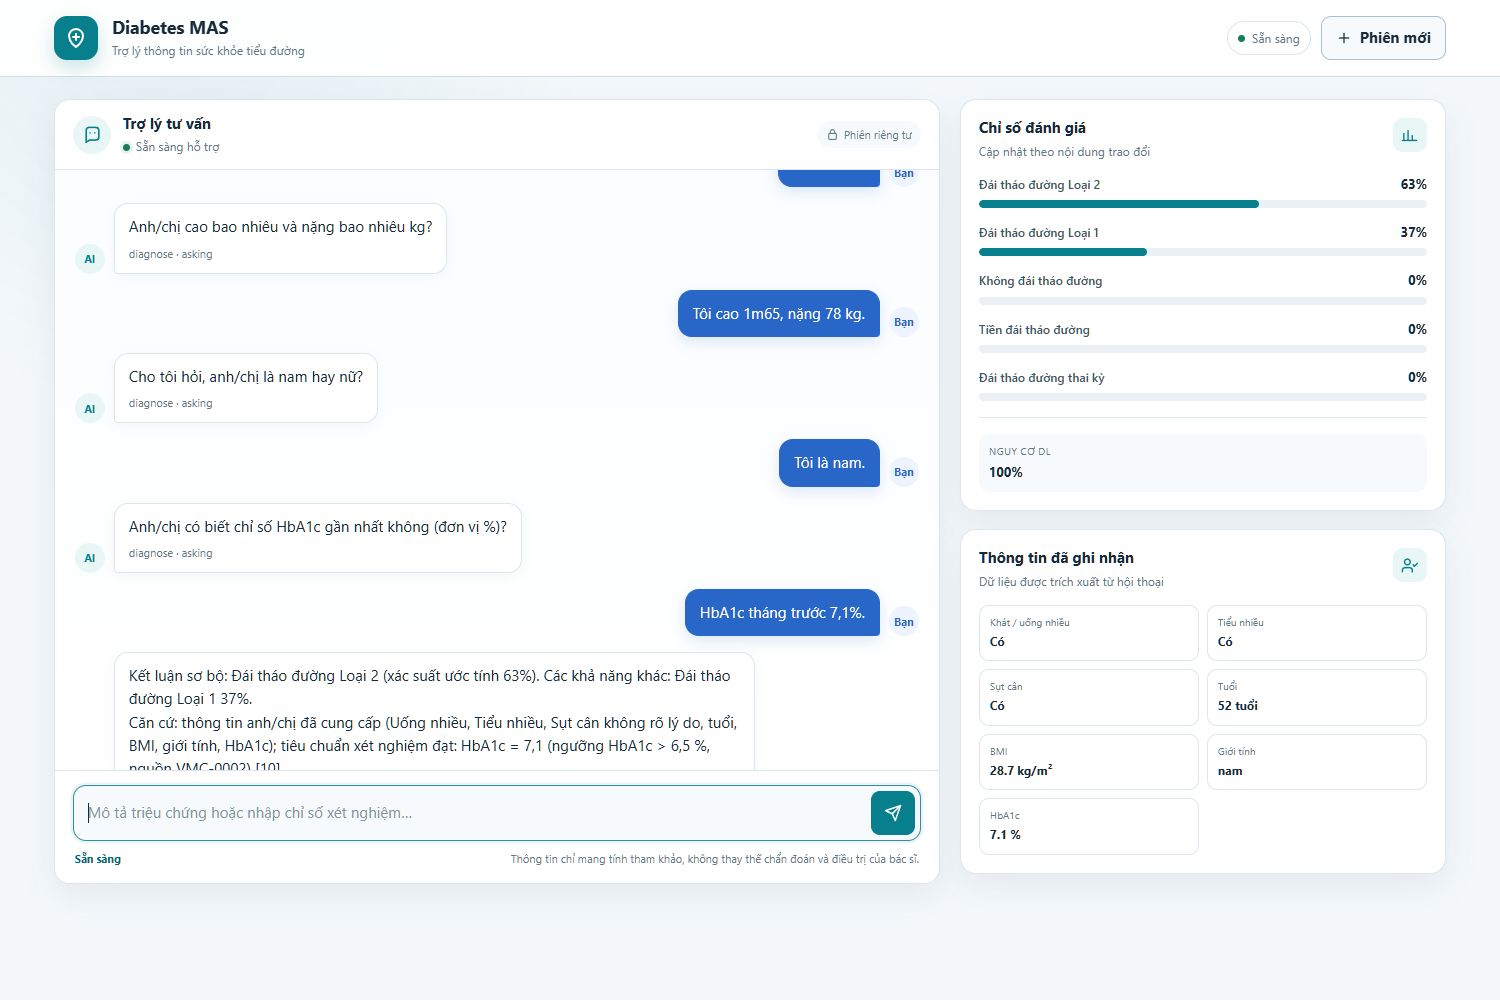
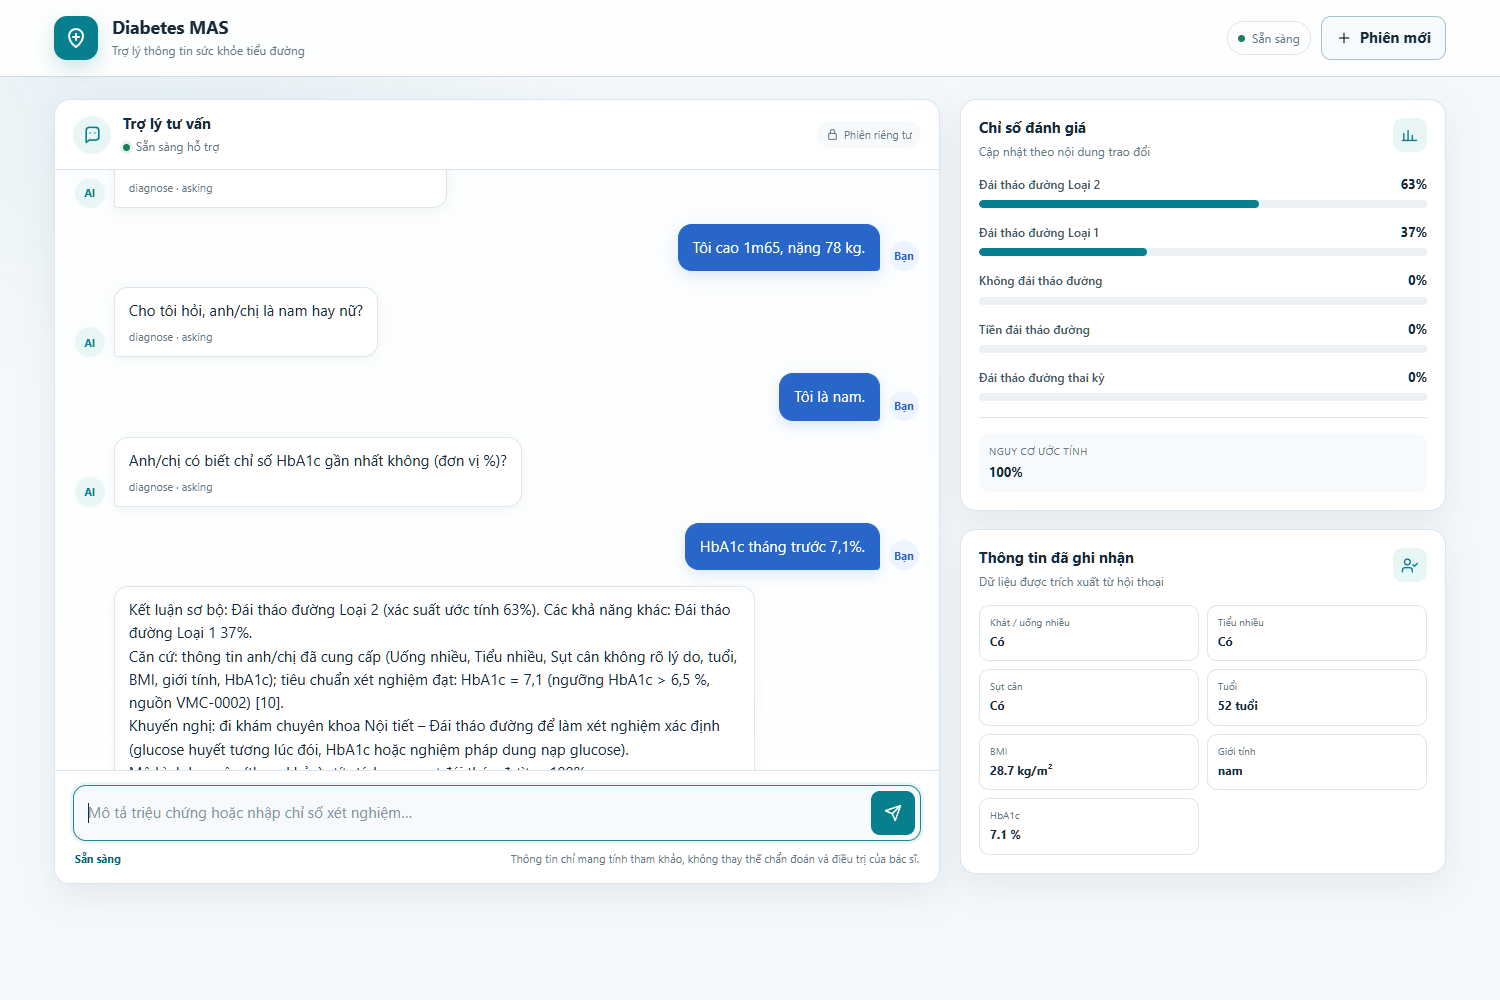
Web demo: đổi nhãn Nguy cơ DL thành Nguy cơ ước tính; chụp lại ảnh

diff --git a/diabetes_mas/src/diabetes_mas/api/static/index.html b/diabetes_mas/src/diabetes_mas/api/static/index.html
@@ -546,7 +546,7 @@ function render(result) {
     ["Policy",result.policy,false,true]
   ];
   if (state.risk_dl != null) {
-    metrics.splice(2,0,["Nguy cơ DL",(state.risk_dl*100).toFixed(0) + "%" + (state.dl_conflict ? " · Mâu thuẫn luật" : ""),state.dl_conflict,false]);
+    metrics.splice(2,0,["Nguy cơ ước tính",(state.risk_dl*100).toFixed(0) + "%" + (state.dl_conflict ? " · Mâu thuẫn luật" : ""),state.dl_conflict,false]);
   }
   $("kv").innerHTML = metrics.map(([label,value,bad,detail]) =>
     '<div class="metric' + (detail ? " detail-only" : "") + '"><span class="metric-label">' + esc(label) +
@@ -621,7 +621,7 @@ $("form").addEventListener("submit",async (event) => {
 });
 
 // Bản trình diễn: ẩn (class detail-only) ô "Dùng LLM" (mặc định bật), khung "Phân tích lượt vừa rồi",
-// khung "Nguồn trích dẫn" và chỉ số Lượt hỏi / Entropy / Policy; chỉ còn xác suất, Nguy cơ DL, slot.
+// khung "Nguồn trích dẫn" và chỉ số Lượt hỏi / Entropy / Policy; chỉ còn xác suất, Nguy cơ ước tính (DL, AG-13), slot.
 // Hiện lại cả hai: nhấp vào tên "Diabetes MAS" (nhấp lần nữa để ẩn) hoặc mở URL có ?chitiet.
 // Dự phòng tắt LLM: mở http://localhost:8000/?llm=0 (hoặc hiện ô rồi bỏ chọn).
 function toggleDetails(force) {

diff --git a/docs/09_DEMO_SCRIPT.md b/docs/09_DEMO_SCRIPT.md
@@ -7,7 +7,7 @@
 > **Trạng thái triển khai (2026-11-12): ✅ đã chạy thử** — phản hồi ở §2 lấy từ lần chạy thử với `use_llm=false` (luật + câu mẫu). Bật Qwen thì câu chữ hỏi/giải thích tự nhiên hơn nhưng kết luận, xác suất và nguồn giống nhau. ✅ Đã chạy thử có bấm giờ qua API cả hai chế độ (§2.6). ✅ Đã chạy thử trên giao diện web mới với Qwen (§2.6.1, §2.5). ⏳ Còn quay video dự phòng.
 >
 > **Giao diện trình diễn (22:30, theo yêu cầu người dùng):**
-> - Mặc định chỉ hiện: khung chat, xác suất 5 lớp, **Nguy cơ DL** và **Thông tin đã ghi nhận**. LLM luôn bật.
+> - Mặc định chỉ hiện: khung chat, xác suất 5 lớp, **Nguy cơ ước tính** (nguy cơ DL của AG-13, đổi tên lúc 23:10) và **Thông tin đã ghi nhận**. LLM luôn bật.
 > - Bị ẩn: ô "Dùng LLM", chỉ số **Lượt hỏi / Entropy / Policy**, khung **Nguồn trích dẫn**, ô slot "Bệnh tự miễn khác" và khung "Phân tích lượt vừa rồi" (luồng agent + bảng tool call). Cập nhật 22:50: ẩn thêm nguồn và ba chỉ số này. Cập nhật 23:00: ẩn thêm ô "Bệnh tự miễn khác", vì ô này đôi khi hiện giá trị thô "unknown".
 > - **Nhấp vào tên "Diabetes MAS"** ở góc trái trên để hiện lại tất cả; nhấp lần nữa để ẩn.
 > - Nhãn giao diện và lời chat hiển thị "Đái tháo đường Loại 2" thay cho "ĐTĐ típ 2". Panel nguồn giữ **nguyên văn** nguồn, nên vẫn ghi "típ".
@@ -109,7 +109,7 @@ Mở sẵn các tab: Web demo `http://localhost:8000` · Neo4j Browser `http://l
 
 | Ảnh | Nội dung |
 |---|---|
-| `assets/demo_story1.png` | Story 1, giao diện trình diễn. Bên trái là khung chat, kết luận "Đái tháo đường Loại 2 (63%)". Bên phải gồm: **Chỉ số đánh giá** (xác suất 5 lớp — Loại 2 63 %, Loại 1 37 %; nguy cơ DL 100 %) và **Thông tin đã ghi nhận** (slot: uống nhiều, tiểu nhiều, sụt cân, 52 tuổi, BMI 28,7, nam, HbA1c 7,1 %) |
+| `assets/demo_story1.png` | Story 1, giao diện trình diễn. Bên trái là khung chat, kết luận "Đái tháo đường Loại 2 (63%)". Bên phải gồm: **Chỉ số đánh giá** (xác suất 5 lớp — Loại 2 63 %, Loại 1 37 %; nguy cơ ước tính 100 %) và **Thông tin đã ghi nhận** (slot: uống nhiều, tiểu nhiều, sụt cân, 52 tuổi, BMI 28,7, nam, HbA1c 7,1 %) |
 | `assets/demo_story1_chitiet.png` | Cùng Story 1 sau khi nhấp "Diabetes MAS". Hiện thêm:<br>– ô "Dùng LLM";<br>– lượt hỏi 1/12, entropy 0,66, policy `hrl_dqn`;<br>– **Nguồn trích dẫn** [1]–[10] (nguyên văn);<br>– **Phân tích lượt vừa rồi**: luồng `nlu → router → tracker → main`, bảng tool call có T-08, **T-15**, T-03, T-04, T-09 |
 | `assets/demo_tuvan.png` | TC-20 (`?llm=0`): tiêu chuẩn chẩn đoán kèm `[n]` (QĐ 3280, Vinmec). Danh sách nguồn ẩn, nhấp tên để xem |
 | `assets/demo_capcuu.png` | TC-34: cảnh báo cấp cứu (khung đỏ) ngay lượt đầu; slot Buồn nôn, Thở nhanh, Đường huyết bất kỳ 25 mmol/L; T-09 `RED FLAG` |

diff --git a/docs/HANDOFF.md b/docs/HANDOFF.md
@@ -124,7 +124,7 @@ Môi trường:
 - **Giao diện trình diễn (22:30, sau đóng băng, người dùng yêu cầu trực tiếp, đã báo phiên quản lý; chỉ sửa `index.html`):**
   - Ẩn ô "Dùng LLM" (LLM luôn bật) và khung "Phân tích lượt vừa rồi".
   - **Nhấp "Diabetes MAS"** để hiện hoặc ẩn lại. `?llm=0` để tắt LLM, `?chitiet` để mở sẵn khung chi tiết.
-  - "Nguồn trích dẫn" tách thành khung riêng. Cập nhật 22:50: khung này cùng chỉ số Lượt hỏi / Entropy / Policy cũng được ẩn (class `detail-only`). Mặc định chỉ còn xác suất, Nguy cơ DL và slot. Cập nhật 23:00: ô slot "Bệnh tự miễn khác" (`benh_tu_mien`, đôi khi hiện "unknown") cũng chỉ hiện ở chế độ chi tiết.
+  - "Nguồn trích dẫn" tách thành khung riêng. Cập nhật 22:50: khung này cùng chỉ số Lượt hỏi / Entropy / Policy cũng được ẩn (class `detail-only`). Mặc định chỉ còn xác suất, Nguy cơ DL (nhãn đổi thành "Nguy cơ ước tính" lúc 23:10) và slot. Cập nhật 23:00: ô slot "Bệnh tự miễn khác" (`benh_tu_mien`, đôi khi hiện "unknown") cũng chỉ hiện ở chế độ chi tiết.
   - Nhãn và lời chat đổi "ĐTĐ" thành "Đái tháo đường", "típ" thành "Loại"; panel nguồn giữ nguyên văn.
   - Kiểm tra trên Chrome: mọi mục OK, gồm cả request `use_llm=false` khi mở `?llm=0`. `test_web_ui` 2 passed.
   - Ảnh `demo_story1/_chitiet/tuvan/capcuu.png` chụp lại (09 §2.5).
